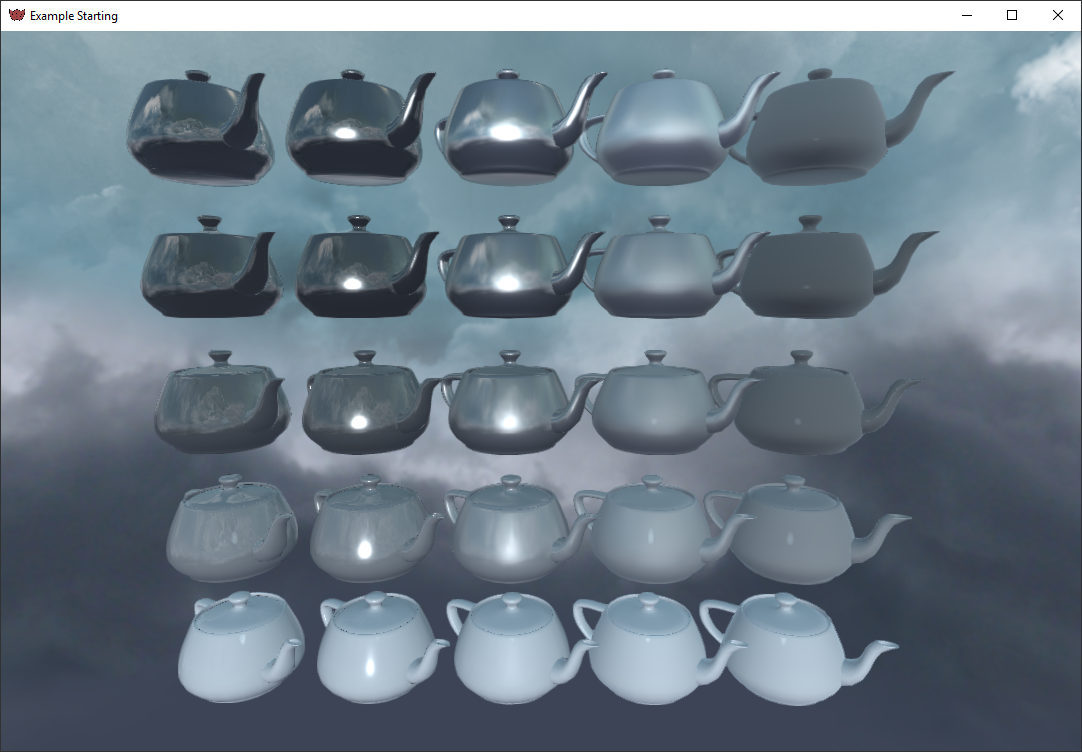
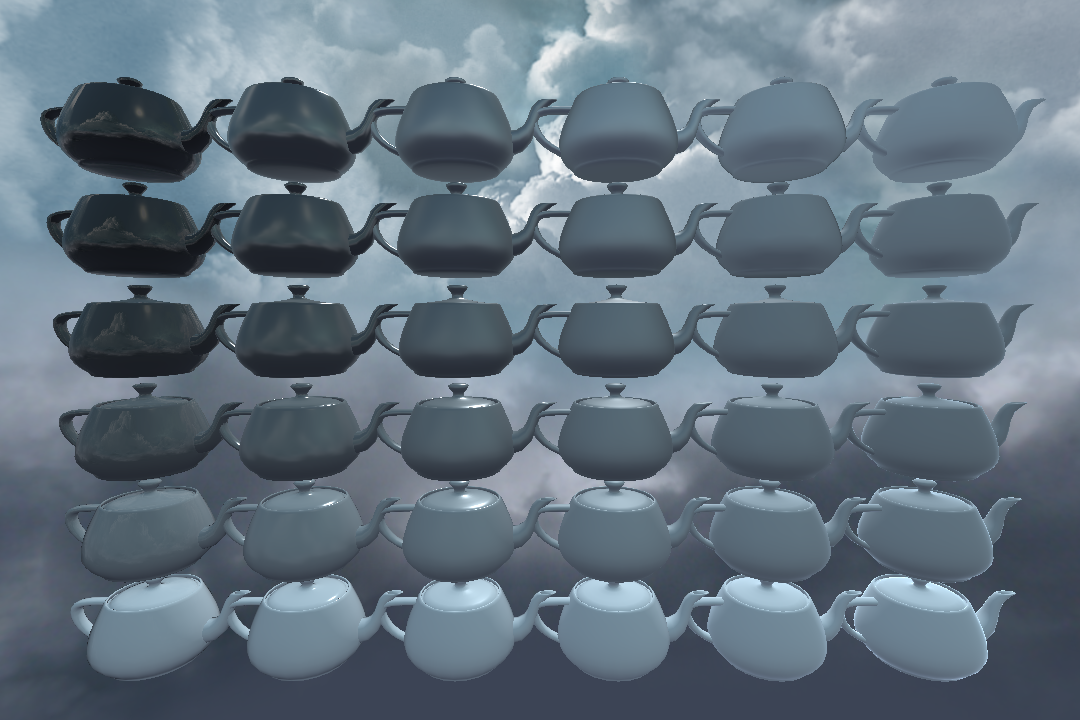
Fixed particles spawn, updated screenshots.

diff --git a/Tests/TestPhysics/MainRenderer.cpp b/Tests/TestPhysics/MainRenderer.cpp
@@ -63,7 +63,7 @@ MainRenderer::MainRenderer()
 	Graphics::Get()->AddSubrender<SubrenderDeferred>(Pipeline::Stage(1, 1));
 	Graphics::Get()->AddSubrender<SubrenderParticles>(Pipeline::Stage(1, 1));
 
-	//Graphics::Get()->AddSubrender<FilterFxaa>(Pipeline::Stage(1, 2));
+	Graphics::Get()->AddSubrender<FilterFxaa>(Pipeline::Stage(1, 2));
 	//Graphics::Get()->AddSubrender<FilterTone>(Pipeline::Stage(1, 2));
 	//Graphics::Get()->AddSubrender<FilterSsao>(Pipeline::Stage(1, 2));
 	//auto sceneBlur = Graphics::Get()->AddSubrender<PipelineBlur>(Pipeline::Stage(1, 2), 1.8f, FilterBlur::Type::_5, false, 0.6f, 1.0f);
@@ -73,7 +73,7 @@ MainRenderer::MainRenderer()
 	//Graphics::Get()->AddSubrender<FilterLensflare>(Pipeline::Stage(1, 2));
 	//Graphics::Get()->AddSubrender<FilterTiltshift>(Pipeline::Stage(1, 2));
 	//Graphics::Get()->AddSubrender<FilterPixel>(Pipeline::Stage(1, 2), 8.0f);
-	//Graphics::Get()->AddSubrender<FilterVignette>(Pipeline::Stage(1, 2));
+	Graphics::Get()->AddSubrender<FilterVignette>(Pipeline::Stage(1, 2));
 	//Graphics::Get()->AddSubrender<FilterGrain>(Pipeline::Stage(1, 2));
 	Graphics::Get()->AddSubrender<FilterDefault>(Pipeline::Stage(1, 2), true);
 	//Graphics::Get()->AddSubrender<RendererGizmos>(Pipeline::Stage(1, 2));

diff --git a/Tests/TestPBR/Scenes/Scene1.cpp b/Tests/TestPBR/Scenes/Scene1.cpp
@@ -58,9 +58,9 @@ void Scene1::Start()
 	auto sun = GetStructure()->CreateEntity(Transform(Vector3f(1000.0f, 5000.0f, 4000.0f), Vector3f(), 18.0f));
 	sun->AddComponent<Light>(Colour::White);
 
-	for (float i = 0.0f; i < 6.0f; i++)
+	for (uint32_t i = 0; i < 6; i++)
 	{
-		for (float j = 0.0f; j < 6.0f; j++)
+		for (uint32_t j = 0; j < 6; j++)
 		{
 			auto sphere = GetStructure()->CreateEntity(Transform(Vector3f(i, j, -6.0f), Vector3f(), 0.5f));
 			sphere->AddComponent<Mesh>(ModelSphere::Create(1.0f, 30, 30));
@@ -78,9 +78,9 @@ void Scene1::Start()
 		}
 	}
 
-	/*auto dragon = GetStructure()->CreateEntity(Transform(Vector3(6.0f, 0.0f, 0.0f), Vector3(0.0f, 90.0f, 0.0f), 0.4f));
+	/*auto dragon = GetStructure()->CreateEntity(Transform(Vector3(6.0f, 0.0f, 0.0f), Vector3(0.0f, -90.0f, 0.0f), 0.4f));
 	dragon->AddComponent<Mesh>(ModelObj::Create("Objects/Testing/Model_Dragon.obj"));
-	dragon->AddComponent<MaterialDefault>(Colour::WHITE, nullptr, 0.1f, 0.7f);
+	dragon->AddComponent<MaterialDefault>(Colour::White, nullptr, 0.7f, 0.1f);
 	dragon->AddComponent<MeshRender>();
 	dragon->AddComponent<ShadowRender>();*/
 }

diff --git a/Sources/Maths/ElapsedTime.cpp b/Sources/Maths/ElapsedTime.cpp
@@ -10,11 +10,12 @@ ElapsedTime::ElapsedTime(const Time &interval) :
 
 uint32_t ElapsedTime::GetElapsed()
 {
-	auto elapsed = static_cast<uint32_t>(std::floor((Time::Now() - m_startTime) / m_interval));
+	auto now = Time::Now();
+	auto elapsed = static_cast<uint32_t>(std::floor((now - m_startTime) / m_interval));
 
-	if (elapsed != 0)
+	if (elapsed != 0.0f)
 	{
-		m_startTime = Time::Now();
+		m_startTime = now;
 	}
 
 	return elapsed;

diff --git a/Sources/Particles/ParticleSystem.cpp b/Sources/Particles/ParticleSystem.cpp
@@ -32,9 +32,9 @@ void ParticleSystem::Update()
 		return;
 	}
 
-	m_elapsedEmit = ElapsedTime(Time::Seconds(1.0f / m_pps));
+	m_elapsedEmit.SetInterval(Time::Seconds(1.0f / m_pps));
 
-	if (float elapsed = m_elapsedEmit.GetElapsed(); elapsed != 0)
+	if (auto elapsed = m_elapsedEmit.GetElapsed(); elapsed)
 	{
 		auto emitters = GetParent()->GetComponents<Emitter>();
 

diff --git a/README.md b/README.md
@@ -12,7 +12,6 @@ Vulkan is the sole graphics API, Vulkan can be accessed in apps with the provide
 This project is being worked on part-time by a single developer, this is under heavy development, expect bugs, API changes, and plenty of missing features.
 
 ## Features
-This is a list of current features in Acid:
  * Multiplatform (Windows, Linux, MacOS, 32bit and 64bit)
  * Multithreaded command buffers and thread safety
  * On the fly GLSL to SPIR-V compilation and reflection
@@ -34,7 +33,6 @@ This is a list of current features in Acid:
  * Image file loading (JPG, PNG, TGA, BMP, PSD, GIF, HDR, PIC)
 
 ## Dependencies
-Acid makes use of the following libraries:
  * [Vulkan](https://www.khronos.org/vulkan) - Vulkan interface
  * [Glslang](https://github.com/KhronosGroup/glslang) - Shader compiling
  * [GLFW](https://github.com/glfw/glfw) - Window creation
@@ -123,15 +121,15 @@ Timers::Get()->Repeat(7s, 3, []()
 ```
 
 ## Screenshots
-<img src="https://raw.githubusercontent.com/Equilibrium-Games/Acid/master/Documents/Screenshot1.png" alt="Acid" width="600px">
+<img src="/Documents/Screenshot1.png" alt="Acid" width="600px">
 
-<img src="https://raw.githubusercontent.com/Equilibrium-Games/Acid/master/Documents/Screenshot2.png" alt="Acid" width="600px">
+<img src="/Documents/Screenshot2.png" alt="Acid" width="600px">
 
-<img src="https://raw.githubusercontent.com/Equilibrium-Games/Acid/master/Documents/Screenshot3.png" alt="Acid" width="600px">
+<img src="/Documents/Screenshot3.png" alt="Acid" width="600px">
 
-<img src="https://raw.githubusercontent.com/Equilibrium-Games/Acid/master/Documents/Screenshot4.png" alt="Acid" width="600px">
+<img src="/Documents/Screenshot4.png" alt="Acid" width="600px">
 
-<img src="https://raw.githubusercontent.com/Equilibrium-Games/Acid/master/Documents/Screenshot5.png" alt="Acid" width="600px">
+<img src="/Documents/Screenshot5.png" alt="Acid" width="600px">
 
 ## Compiling
 All platforms depend on [CMake](https://cmake.org/download), 3.11 or higher, to generate IDE/make files.
